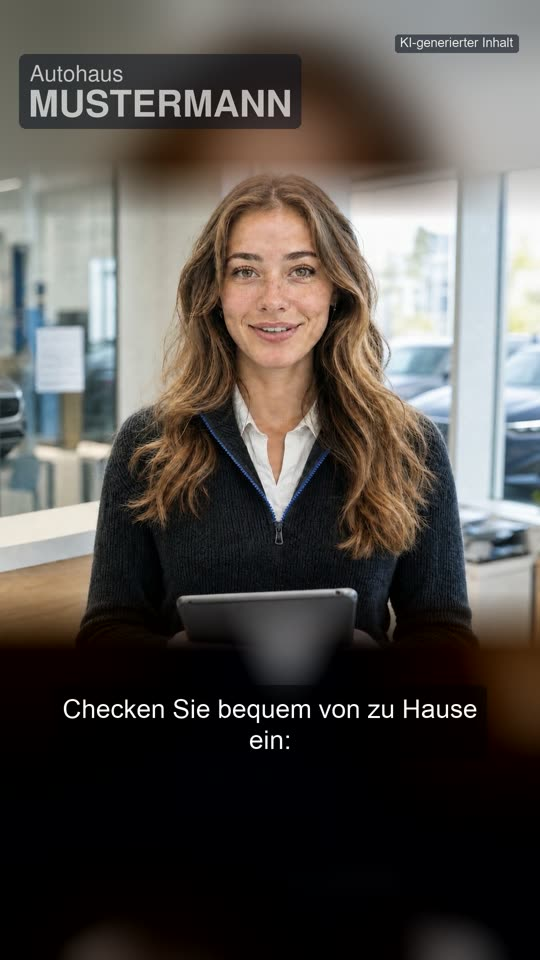
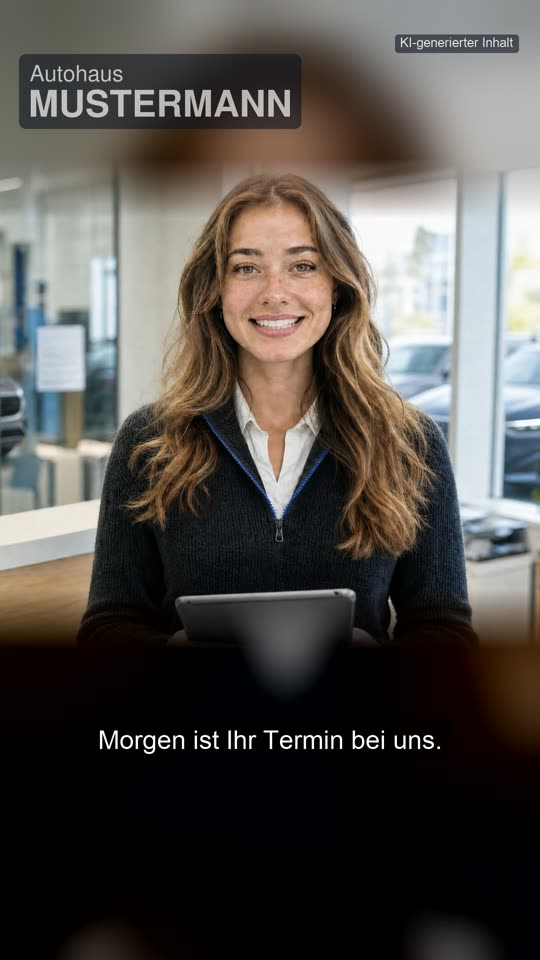
KI-Medien: Check-in-Standbild mit ganzem Satz, Team-Clips im JSON-LD

diff --git a/index.html b/index.html
@@ -23,7 +23,7 @@
 <meta property="og:image:height" content="630">
 <meta property="og:image:alt" content="DLIVR – Kundenkommunikation und Digitalisierung im Autohaus: SVC einrichten, KI-Medien, PDF-Formulare.">
 <meta name="twitter:card" content="summary_large_image">
-<script type="application/ld+json">{"@context": "https://schema.org", "@graph": [{"@type": "Organization", "@id": "https://dlivr.eu/#org", "name": "DLIVR", "url": "https://dlivr.eu/", "logo": "https://dlivr.eu/assets/dlivr-logo-hell.svg", "email": "ft@dlivr.eu", "founder": {"@type": "Person", "name": "Frank Töpfer"}, "sameAs": ["https://www.linkedin.com/company/dlivr-eu/", "https://www.youtube.com/@dlivr-eu"]}, {"@type": "VideoObject", "name": "So spricht Ihre Werkstatt", "description": "Zwei Musterclips, wie eine Werkstatt ihre Kunden per Video anspricht, mit KI erstellt. Figuren und Autohaus Mustermann sind fiktiv.", "thumbnailUrl": "https://dlivr.eu/assets/medien/ki-medien-werkstatt-spricht-20261028.jpg", "contentUrl": "https://dlivr.eu/assets/medien/ki-medien-werkstatt-spricht-20261028.mp4", "uploadDate": "2026-10-28T08:00:00+01:00", "duration": "PT41S", "publisher": {"@id": "https://dlivr.eu/#org"}}, {"@type": "VideoObject", "name": "Liv erklärt die Archivsuche", "description": "Liv zeigt die Archivsuche in mi-tool: Suchbegriff tippen, Treffer mit Fundstelle, Vorgang öffnen. KI-generierte Figur, Musterbestand.", "thumbnailUrl": "https://dlivr.eu/assets/medien/ki-medien-liv-archivsuche-20261028.jpg", "contentUrl": "https://dlivr.eu/assets/medien/ki-medien-liv-archivsuche-20261028.mp4", "uploadDate": "2026-10-28T08:00:00+01:00", "duration": "PT34S", "publisher": {"@id": "https://dlivr.eu/#org"}}, {"@type": "VideoObject", "name": "Der Meister erklärt die Archivsuche", "description": "KI-Figur erklärt die Archivsuche in mi-tool auf Deutsch, Luxemburgisch, Französisch und Englisch.", "thumbnailUrl": "https://dlivr.eu/assets/medien/ki-medien-meister-archivsuche-20261019.jpg", "contentUrl": "https://dlivr.eu/assets/medien/ki-medien-meister-archivsuche-20261019.mp4", "uploadDate": "2026-10-19T08:00:00+02:00", "duration": "PT50S", "publisher": {"@id": "https://dlivr.eu/#org"}}]}</script>
+<script type="application/ld+json">{"@context": "https://schema.org", "@graph": [{"@type": "Organization", "@id": "https://dlivr.eu/#org", "name": "DLIVR", "url": "https://dlivr.eu/", "logo": "https://dlivr.eu/assets/dlivr-logo-hell.svg", "email": "ft@dlivr.eu", "founder": {"@type": "Person", "name": "Frank Töpfer"}, "sameAs": ["https://www.linkedin.com/company/dlivr-eu/", "https://www.youtube.com/@dlivr-eu"]}, {"@type": "VideoObject", "name": "So spricht Ihre Werkstatt", "description": "Zwei Musterclips, wie eine Werkstatt ihre Kunden per Video anspricht, mit KI erstellt. Figuren und Autohaus Mustermann sind fiktiv.", "thumbnailUrl": "https://dlivr.eu/assets/medien/ki-medien-werkstatt-spricht-20261028.jpg", "contentUrl": "https://dlivr.eu/assets/medien/ki-medien-werkstatt-spricht-20261028.mp4", "uploadDate": "2026-10-28T08:00:00+01:00", "duration": "PT41S", "publisher": {"@id": "https://dlivr.eu/#org"}}, {"@type": "VideoObject", "name": "Liv erklärt die Archivsuche", "description": "Liv zeigt die Archivsuche in mi-tool: Suchbegriff tippen, Treffer mit Fundstelle, Vorgang öffnen. KI-generierte Figur, Musterbestand.", "thumbnailUrl": "https://dlivr.eu/assets/medien/ki-medien-liv-archivsuche-20261028.jpg", "contentUrl": "https://dlivr.eu/assets/medien/ki-medien-liv-archivsuche-20261028.mp4", "uploadDate": "2026-10-28T08:00:00+01:00", "duration": "PT34S", "publisher": {"@id": "https://dlivr.eu/#org"}}, {"@type": "VideoObject", "name": "Der Meister erklärt die Archivsuche", "description": "KI-Figur erklärt die Archivsuche in mi-tool auf Deutsch, Luxemburgisch, Französisch und Englisch.", "thumbnailUrl": "https://dlivr.eu/assets/medien/ki-medien-meister-archivsuche-20261019.jpg", "contentUrl": "https://dlivr.eu/assets/medien/ki-medien-meister-archivsuche-20261019.mp4", "uploadDate": "2026-10-19T08:00:00+02:00", "duration": "PT50S", "publisher": {"@id": "https://dlivr.eu/#org"}}, {"@type": "VideoObject", "name": "Die Serviceberaterin erinnert an den Online-Check-in", "description": "Realistische KI-Figur erinnert an den Termin und den Online-Check-in. Figur und Autohaus Mustermann sind fiktiv.", "thumbnailUrl": "https://dlivr.eu/assets/medien/ki-medien-team-checkin-20261031.jpg", "contentUrl": "https://dlivr.eu/assets/medien/ki-medien-team-checkin-20261031.mp4", "uploadDate": "2026-10-31T08:00:00+01:00", "duration": "PT12S", "publisher": {"@id": "https://dlivr.eu/#org"}}, {"@type": "VideoObject", "name": "Die Meisterin meldet einen Steinschlag", "description": "Realistische KI-Figur meldet einen Befund aus der Werkstatt mit Angebot. Figur und Autohaus Mustermann sind fiktiv.", "thumbnailUrl": "https://dlivr.eu/assets/medien/ki-medien-team-steinschlag-20261031.jpg", "contentUrl": "https://dlivr.eu/assets/medien/ki-medien-team-steinschlag-20261031.mp4", "uploadDate": "2026-10-31T08:00:00+01:00", "duration": "PT13S", "publisher": {"@id": "https://dlivr.eu/#org"}}, {"@type": "VideoObject", "name": "Der Mechatroniker empfiehlt neue Reifen", "description": "Realistische KI-Figur empfiehlt nach der Reifenprüfung neue Reifen für die Saison. Figur und Autohaus Mustermann sind fiktiv.", "thumbnailUrl": "https://dlivr.eu/assets/medien/ki-medien-team-reifen-20261031.jpg", "contentUrl": "https://dlivr.eu/assets/medien/ki-medien-team-reifen-20261031.mp4", "uploadDate": "2026-10-31T08:00:00+01:00", "duration": "PT12S", "publisher": {"@id": "https://dlivr.eu/#org"}}, {"@type": "VideoObject", "name": "Der Teiledienst meldet: Das Teil ist da", "description": "Realistische KI-Figur meldet, dass das bestellte Teil eingetroffen ist. Figur und Autohaus Mustermann sind fiktiv.", "thumbnailUrl": "https://dlivr.eu/assets/medien/ki-medien-team-teil-20261031.jpg", "contentUrl": "https://dlivr.eu/assets/medien/ki-medien-team-teil-20261031.mp4", "uploadDate": "2026-10-31T08:00:00+01:00", "duration": "PT11S", "publisher": {"@id": "https://dlivr.eu/#org"}}]}</script>
 </head>
 <body>
 <a class="skip" href="#inhalt">Zum Inhalt springen</a>
